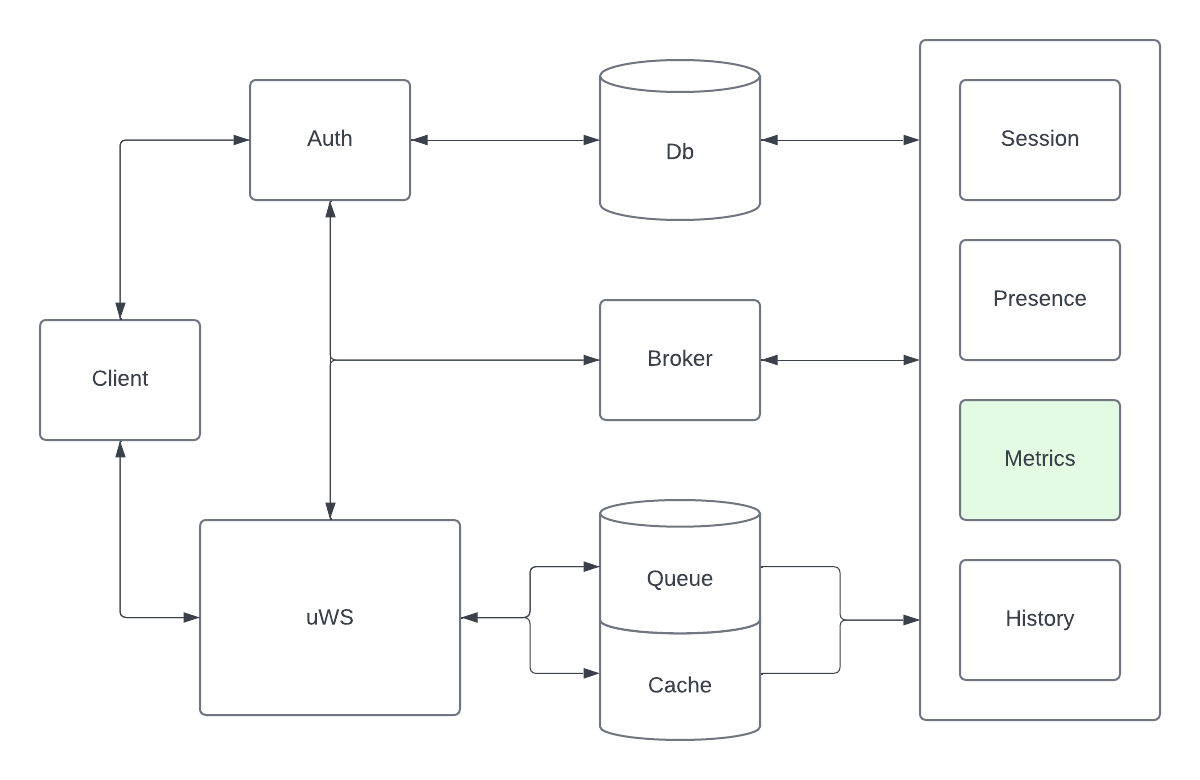
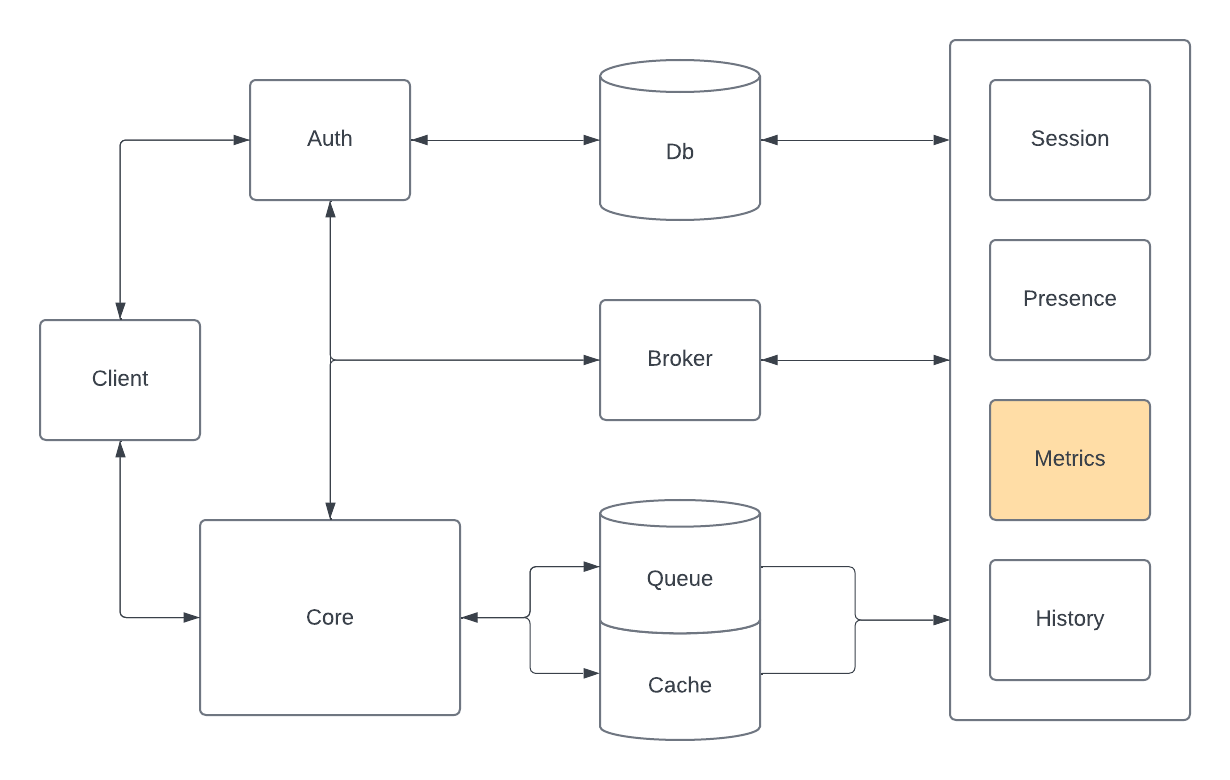
chore: add system diagram [skip ci]

diff --git a/README.md b/README.md
@@ -39,7 +39,7 @@ npm run test
 
 Metrics play an important role in providing visibility into the traffic and performance of the RelayBox ecosystem from a global level right down to the individual application, user, room and event level. Metrics provide feebback on user interaction with rooms and events, along with statistics related to the delivery of messages and system latency.
 
-<!-- ![RelayBox system diagram, highlight Metrics](/assets/system/relaybox-system-metrics.png) -->
+![RelayBox system diagram, highlight Metrics](/assets/system/relaybox-system-metrics.png)
 
 The dashboard provides useful insights into the perfomance and usage statistics and even provides a mechanism to write your own metrics visualizations based on the data collected.
 
